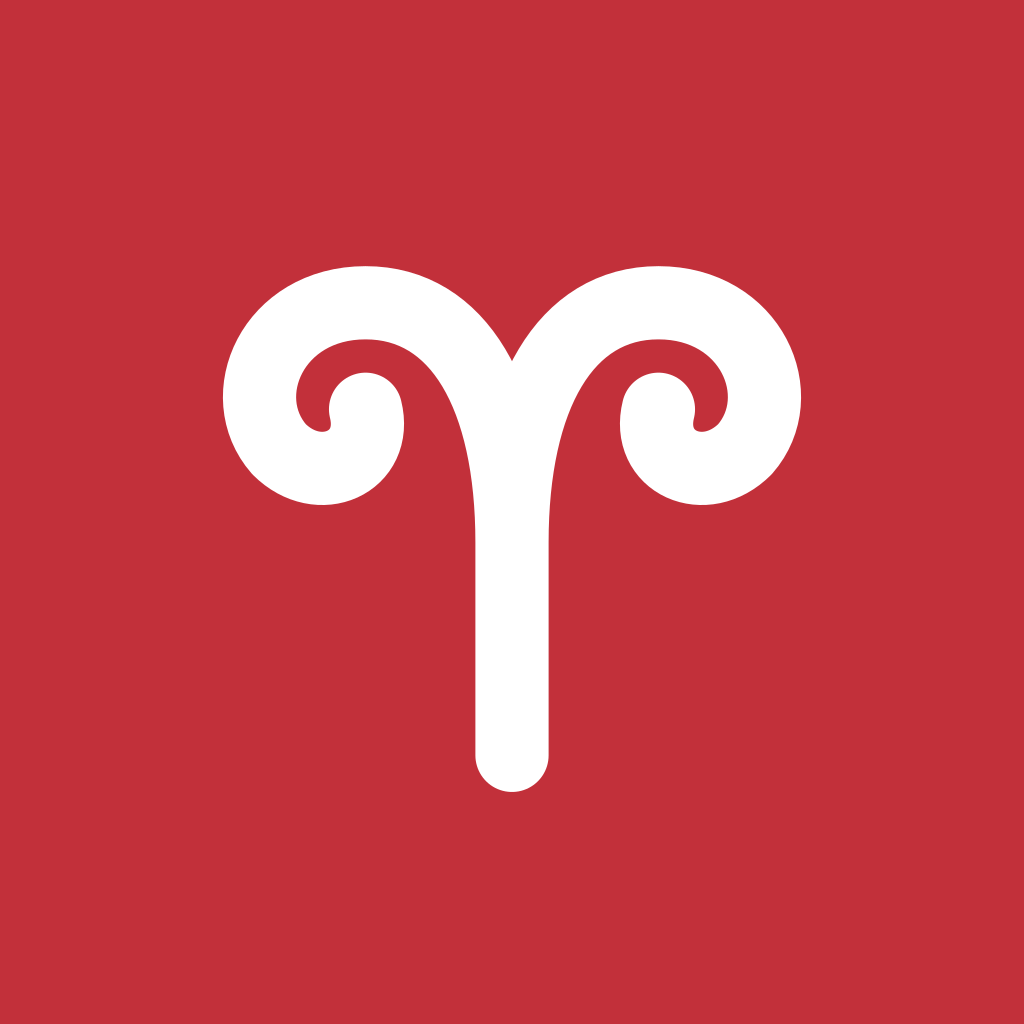
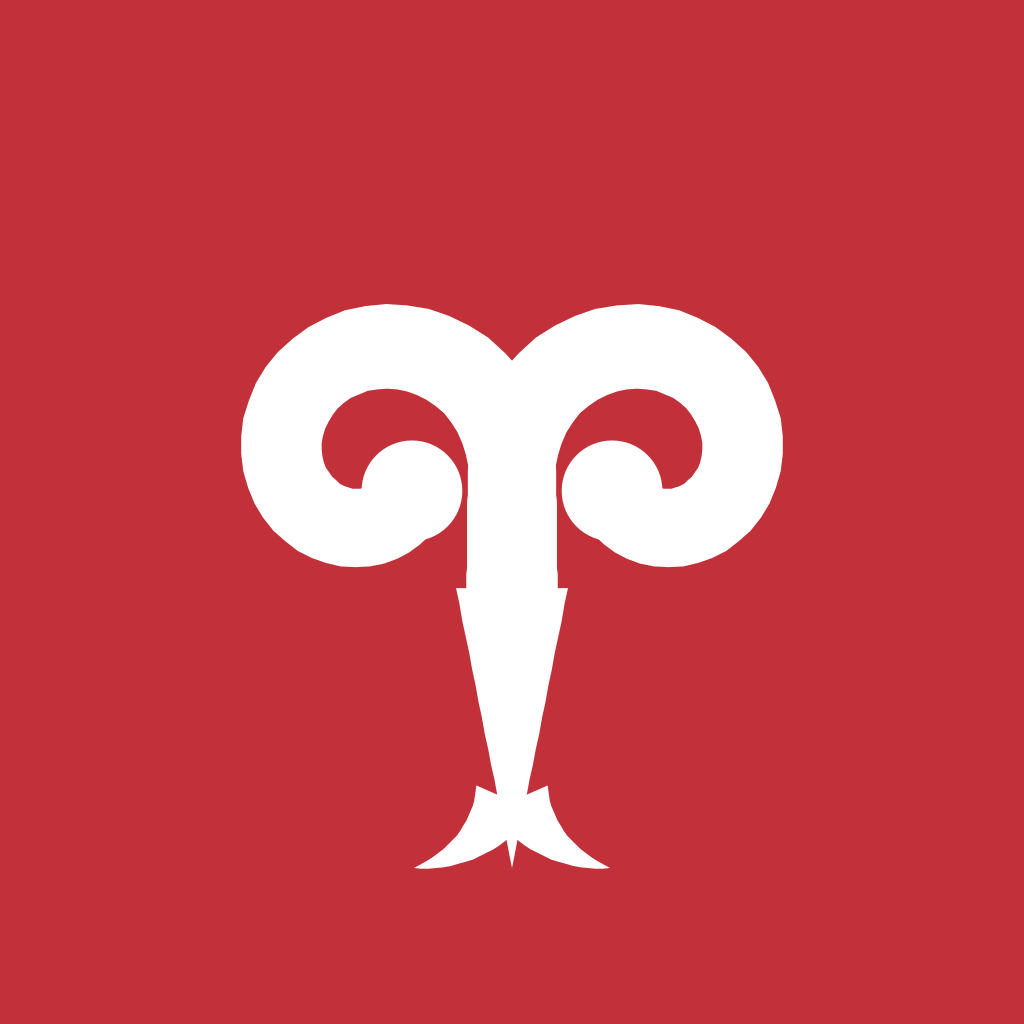
Redraw ornaments in cut-felt style: heavy spiral horns with round ends
New coil primitive (thick spiral ending in a round knob), pointed spikes
and a tulip bud, matching the plastic of traditional qoshqar müyiz.
Single-colour silhouettes on light tiles; new app icon, splash and
module banner strip in the same style.

Claude-Session: https://claude.ai/code/session_01NjPF9iNywv5Fmwc6nnLrA6

Changed region(s): [[0.2188, 0.25, 0.7812, 0.6562], [0.4062, 0.6875, 0.5938, 0.875]]

diff --git a/src/art.ts b/src/art.ts
@@ -10,18 +10,18 @@ type P = [number, number];
 export const PAL: Record<string, Pal> = {
   // [tile background, main silhouette, accent]
   muyiz: ['#FCE6DF', '#B42A34', '#E2A72E'],
-  qoshqar: ['#1E4FA3', '#FFF3E0', '#F2C14E'],
+  qoshqar: ['#E1EBF8', '#1E4FA3', '#B42A34'],
   synyq: ['#FFF0D2', '#B42A34', '#1E4FA3'],
   syngar: ['#E1EBF8', '#1E4FA3', '#B42A34'],
   tuyeorkesh: ['#F5E4D2', '#7A4A2E', '#B42A34'],
   tuyetaban: ['#E3EEF9', '#1E4FA3', '#B42A34'],
   botamoyin: ['#FBE4E1', '#9E2232', '#7A4A2E'],
   atbasy: ['#E3E8F3', '#1C2340', '#B42A34'],
-  jilinshik: ['#F2C14E', '#1C1C22', '#B42A34'],
+  jilinshik: ['#FBEBC2', '#1C1C22', '#B42A34'],
   kanka: ['#E8F2D8', '#2F6E43', '#D99A1E'],
   tortkulak: ['#FFF0D2', '#B42A34', '#1E4FA3'],
   qus: ['#DDEFF9', '#1F6FA8', '#B42A34'],
-  qanat: ['#E2F2E8', '#1E4FA3', '#3E8E57', '#B42A34'],
+  qanat: ['#E2F2E8', '#1E4FA3', '#3E8E57'],
   qarlygash: ['#DDEFF9', '#1C2340', '#3BA7D6'],
   qargatuyaq: ['#FFF0D2', '#1C2340', '#B42A34'],
   tyshqan: ['#F5E4D2', '#7A4A2E', '#B42A34'],
@@ -93,22 +93,6 @@ const circle = (x: number, y: number, r: number, fill: string) => `<circle cx="$
 const diamond = (x: number, y: number, r: number, fill: string) => poly([[x, y - r], [x + r, y], [x, y + r], [x - r, y]], fill);
 const rect = (x: number, y: number, w: number, h: number, fill: string, rx = 0) => `<rect x="${r1(x)}" y="${r1(y)}" width="${r1(w)}" height="${r1(h)}" rx="${rx}" fill="${fill}"/>`;
 
-/* ---------------- the horn ---------------- */
-
-// Canonical right horn, base at (0,0), rising, rolling outward and down into a tight curl.
-const HORN_LINE = chain([0, 0], [
-  [0, -14, 3, -27, 15, -33],
-  [27, -39, 41, -31, 39, -18],
-  [37, -7, 24, -6, 23, -15],
-  [22.5, -21, 28.5, -22.5, 30, -18.5],
-]);
-/** One horn as a filled path. flip mirrors it to curl left. */
-function horn(t: Xf & { flip?: boolean; w0?: number; w1?: number }, fill: string) {
-  const pts = taperPts(HORN_LINE, t.w0 ?? 13, t.w1 ?? 4.2, 0.8);
-  return poly(xf(pts, { ...t, sx: (t.sx ?? 1) * (t.flip ? -1 : 1) }), fill);
-}
-const hornPair = (t: Xf & { w0?: number; w1?: number }, fill: string) => horn(t, fill) + horn({ ...t, flip: true }, fill);
-
 /** A generic tapered curve from a Bézier chain, placed with a transform. */
 function blade(start: P, segs: number[][], w0: number, w1: number, t: Xf, fill: string, ease = 1) {
   return poly(xf(taperPts(chain(start, segs), w0, w1, ease), t), fill);
@@ -120,62 +104,114 @@ const bar = (pts: P[], w: number, fill: string) =>
 const mirrorX = (pts: P[], cx = 60): P[] => pts.map(([x, y]) => [2 * cx - x, y]);
 const mirrorY = (pts: P[], cy = 60): P[] => pts.map(([x, y]) => [x, 2 * cy - y]);
 
+/* ---------------- felt-cut primitives ---------------- */
+
+/** Pointed blade: like taperPts but ends in a sharp point. */
+function spikePts(line: P[], w0: number): P[] {
+  const pts = taperPts(line, w0, 0.01, 1);
+  return pts;
+}
+/** A tapered curve ending in a sharp point, from a Bézier chain. */
+function spike(start: P, segs: number[][], w0: number, t: Xf, fill: string) {
+  return poly(xf(spikePts(chain(start, segs), w0), t), fill);
+}
+
+interface Coil { cx: number; cy: number; R0: number; R1: number; turns: number; w: number; w0?: number; lead: number[]; knob?: number; a0?: number }
+/**
+ * Thick spiral horn: from base (0,0) a lead curve reaches the top of a spiral centred at (cx,cy),
+ * then winds clockwise inward (R0 → R1) and ends in a round knob — the cut-felt qoshqar müyiz curl.
+ */
+function coilPts(c: Coil): P[] {
+  const a0 = ((c.a0 ?? -90) * Math.PI) / 180;
+  const S: P = [c.cx + c.R0 * Math.cos(a0), c.cy + c.R0 * Math.sin(a0)];
+  const lead = chain([0, 0], [[c.lead[0], c.lead[1], c.lead[2], c.lead[3], S[0], S[1]]], 16);
+  const sp: P[] = [];
+  const n = Math.round(48 * c.turns);
+  for (let i = 1; i <= n; i++) {
+    const t = i / n, th = a0 + t * c.turns * 2 * Math.PI;
+    const r = c.R0 - (c.R0 - c.R1) * t;
+    sp.push([c.cx + r * Math.cos(th), c.cy + r * Math.sin(th)]);
+  }
+  return [...lead, ...sp];
+}
+function coil(c: Coil, t: Xf & { flip?: boolean }, fill: string) {
+  const line = coilPts(c);
+  const body = taperPts(line, c.w0 ?? c.w * 1.15, c.w, 1);
+  const end = line[line.length - 1];
+  const T = { ...t, sx: (t.sx ?? 1) * (t.flip ? -1 : 1) };
+  const [kx, ky] = xf([end], T)[0];
+  const k = (t.s ?? 1) * (c.knob ?? c.w * 0.62);
+  return poly(xf(body, T), fill) + circle(kx, ky, k, fill);
+}
+const coilPair = (c: Coil, t: Xf, fill: string) => coil(c, t, fill) + coil(c, { ...t, flip: true }, fill);
+
+/** Tulip bud on a short neck, tip pointing up, base at (0,0). */
+const BUD: P[] = chain([0, 0], [[-3, -2, -10, -6, -10, -13], [-10, -20, -4, -24, 0, -32], [4, -24, 10, -20, 10, -13], [10, -6, 3, -2, 0, 0]], 12);
+const bud = (t: Xf, fill: string) => poly(xf(BUD, t), fill);
+
 /* ---------------- motifs ---------------- */
 
 const ART: Record<string, (p: Pal) => string> = {
-  // Müyiz: the single basic element: a short stem splitting into two horns.
-  muyiz: ([, f, a]) =>
-    poly([[54, 100], [66, 100], [64.5, 74], [55.5, 74]], f) +
-    hornPair({ x: 60, y: 76, s: 1.12 }, f) +
-    diamond(60, 104, 5, a),
+  // Müyiz: the basic element — a stem that opens into two horns curling outward.
+  muyiz: ([, f]) =>
+    spike([0, 0], [[0, 14, 0, 28, 0, 40]], 16, { x: 60, y: 64 }, f) +
+    spike([0, 0], [[-2, 5, -7, 9, -13, 10]], 9, { x: 59, y: 94 }, f) +
+    spike([0, 0], [[2, 5, 7, 9, 13, 10]], 9, { x: 61, y: 94 }, f) +
+    coilPair({ a0: 180, cx: 20, cy: -20, R0: 20, R1: 7, turns: 0.9, w0: 13, w: 11, knob: 7.2, lead: [0, -7, 0, -14] }, { x: 60, y: 66 }, f),
 
-  // Qoshqar müyiz: big pair up, small pair turned down, joined by a pointed core.
-  qoshqar: ([, f, a]) =>
-    hornPair({ x: 60, y: 62, s: 1.1, w0: 14 }, f) +
-    hornPair({ x: 60, y: 72, s: 0.6, sy: -1, w0: 13 }, f) +
-    poly([[60, 50], [69, 67], [60, 84], [51, 67]], f) +
-    diamond(60, 67, 5.5, a),
+  // Qoshqar müyiz: bud and leaves on top, two heavy horns rolling down, forked foot.
+  qoshqar: ([, f]) =>
+    spike([0, 0], [[0, 20, 0, 40, 0, 62]], 19, { x: 60, y: 36 }, f) +
+    spike([0, 0], [[-2, 6, -8, 11, -15, 13]], 10, { x: 59, y: 88 }, f) +
+    spike([0, 0], [[2, 6, 8, 11, 15, 13]], 10, { x: 61, y: 88 }, f) +
+    coilPair({ cx: 25, cy: 22, R0: 22, R1: 9, turns: 0.9, w0: 11, w: 15, knob: 9, lead: [4, -8, 14, -1] }, { x: 60, y: 54, s: 0.95 }, f) +
+    spike([0, 0], [[6, 0, 13, -3, 17, -11]], 10, { x: 60, y: 45 }, f) +
+    spike([0, 0], [[-6, 0, -13, -3, -17, -11]], 10, { x: 60, y: 45 }, f) +
+    bud({ x: 60, y: 42, s: 0.85 }, f),
 
   // Synyq müyiz: the horn hook rebuilt from straight lines, four hooks around a diamond.
-  synyq: ([, f, a]) => {
+  synyq: ([b, f]) => {
     const hook: P[] = [[60, 46], [60, 26], [84, 26], [84, 44], [70, 44], [70, 36]];
     let s = '';
-    for (const pts of [hook, mirrorX(hook), mirrorY(hook), mirrorX(mirrorY(hook))]) s += bar(pts, 8, f);
-    return s + diamond(60, 60, 12, f) + diamond(60, 60, 5.5, a);
+    for (const pts of [hook, mirrorX(hook), mirrorY(hook), mirrorX(mirrorY(hook))]) s += bar(pts, 9, f);
+    return s + diamond(60, 60, 13, f) + diamond(60, 60, 5, b);
   },
 
-  // Syngar müyiz: a border of single horns rising from one band.
-  syngar: ([, f, a]) =>
-    rect(8, 86, 104, 11, f, 3) +
-    [12, 45, 78].map(x => horn({ x: x + 2, y: 88, s: 0.76, w0: 13, w1: 4.2 }, f)).join('') +
-    [31, 64, 97].map(x => diamond(x, 36, 4, a)).join(''),
+  // Syngar müyiz: a border band with single horns rising from it, all curling the same way.
+  syngar: ([, f]) =>
+    rect(8, 84, 104, 12, f, 2) +
+    [14, 46, 78].map(x => coil({ a0: 180, cx: 14, cy: -22, R0: 14, R1: 4.5, turns: 0.88, w0: 10, w: 8, knob: 5.4, lead: [0, -8, 0, -15] }, { x: x + 1, y: 86 }, f)).join('') +
+    [31, 63, 95].map(x => spike([0, 0], [[0, -6, 0, -12, 0, -18]], 7, { x, y: 85 }, f)).join(''),
 
-  // Tüye örkesh: two humps on a band, the outer slopes ending in horn curls.
-  tuyeorkesh: ([, f, a]) =>
-    path('M12 96 L12 88 C17 88 20 38 39 38 C55 38 56 64 60 70 C64 64 65 38 81 38 C100 38 103 88 108 88 L108 96 Z', f) +
-    diamond(39, 72, 6, a) + diamond(81, 72, 6, a) + diamond(60, 88, 4, a),
+  // Tüye örkesh: two camel humps rising from a band, a bud between them.
+  tuyeorkesh: ([, f]) =>
+    path('M10 98 L10 88 C17 88 20 42 39 42 C54 42 56 62 60 70 C64 62 66 42 81 42 C100 42 103 88 110 88 L110 98 Z', f) +
+    bud({ x: 60, y: 72, s: 0.75 }, f),
 
-  // Tüye taban: four camel footprints (two-toed heart shapes) around a diamond.
-  tuyetaban: ([, f, a]) => {
+  // Tüye taban: four camel footprints (two-toed hearts) around a diamond.
+  tuyetaban: ([b, f]) => {
     const pad = chain([0, 0], [[-13, 0, -17, -15, -11, -24], [-7, -30, -1, -28, 0, -17], [1, -28, 7, -30, 11, -24], [17, -15, 13, 0, 0, 0]], 14);
     let s = '';
     for (let k = 0; k < 4; k++) {
       const ang = ((k * 90 + 45) * Math.PI) / 180;
-      const pts = xf(pad, { s: 1.15, rot: k * 90 + 45 }).map(([x, y]) => [x + 60 + Math.sin(ang) * 13, y + 60 - Math.cos(ang) * 13] as P);
-      s += poly(pts, f);
+      s += poly(xf(pad, { s: 1.15, rot: k * 90 + 45 }).map(([x, y]) => [x + 60 + Math.sin(ang) * 13, y + 60 - Math.cos(ang) * 13] as P), f);
     }
-    return s + diamond(60, 60, 8, a);
+    return s + diamond(60, 60, 9, f) + diamond(60, 60, 3.5, b);
   },
 
-  // Bota moyyn: two slender necks bowing towards each other, forming a lyre.
-  botamoyin: ([, f, a]) => {
-    const neck = (flip: boolean) =>
-      blade([0, 0], [[24, -8, 32, -30, 24, -50], [19, -62, 5, -66, 1, -56], [-2, -50, 4, -45, 8, -49]], 13, 4.5, { x: 60 + (flip ? -5 : 5), y: 100, sx: flip ? -1 : 1 }, f, 0.9);
-    return neck(false) + neck(true) + diamond(60, 66, 7, a) + diamond(60, 104, 3.5, a);
+  // Bota moyyn: two slender necks bowing towards each other into heavy curls, a bud between.
+  botamoyin: ([, f]) => {
+    const neck = (flip: boolean) => {
+      const sx = flip ? -1 : 1;
+      return blade([0, 0], [[24, -8, 32, -30, 24, -50], [19, -62, 5, -66, 1, -56], [-1, -51, 3, -47, 7, -49]], 12, 9, { x: 60 + sx * 5, y: 102, sx }, f, 0.9) +
+        circle(60 + sx * 12, 53, 6.5, f);
+    };
+    return neck(false) + neck(true) + bud({ x: 60, y: 84, s: 0.95 }, f) +
+      spike([0, 0], [[0, 4, 0, 8, 0, 14]], 8, { x: 60, y: 84 }, f);
   },
 
-  // At basy: two horse heads facing each other, arched necks, curled manes.
-  atbasy: ([, f, a]) => {
+  // At basy: two horse heads facing each other, arched necks.
+  atbasy: ([, f]) => {
     const head: P[] = chain([0, 0], [
       [-2, -22, 2, -40, 12, -48], [13, -53, 15, -58, 17, -61], [19, -57, 20, -53, 22, -50],
       [30, -46, 38, -38, 42, -30], [44, -26, 42, -22, 37, -22], [31, -22, 27, -24, 24, -22],
@@ -184,106 +220,108 @@ const ART: Record<string, (p: Pal) => string> = {
     const one = (flip: boolean) => {
       const x0 = flip ? 106 : 14, sx = flip ? -1 : 1;
       return poly(xf(head, { x: x0, y: 96, sx, s: 0.95 }), f) +
-        blade([0, 0], [[-8, 4, -12, 14, -8, 22]], 6, 3, { x: x0 + sx * 8, y: 52, sx }, f) +
-        circle(x0 + sx * 25, 57, 2.4, a);
+        spike([0, 0], [[-8, 4, -12, 14, -8, 24]], 7, { x: x0 + sx * 8, y: 52, sx }, f);
     };
-    return one(false) + one(true) + rect(12, 98, 96, 6, a, 3);
+    return one(false) + one(true) + rect(10, 96, 100, 9, f, 2);
   },
 
-  // Jilinshik: the "shin bone" key — an angular meander band.
-  jilinshik: ([, f, a]) => {
+  // Jilinshik: the "shin bone" key — an angular meander.
+  jilinshik: ([b, f]) => {
     const key: P[] = [[14, 88], [14, 34], [52, 34], [52, 70], [32, 70], [32, 52], [42, 52]];
-    return bar(key, 9, f) + bar(mirrorX(mirrorY(key)), 9, f) + diamond(60, 60, 6, a);
+    return bar(key, 10, f) + bar(mirrorX(mirrorY(key)), 10, f) + diamond(60, 60, 7, f) + diamond(60, 60, 2.5, b);
   },
 
-  // Qangqa: a spine with dense, slightly bowed ribs.
-  kanka: ([, f, a]) => {
-    let s = rect(55.5, 14, 9, 92, f, 4);
+  // Qangqa: a spine with dense ribs, each rib tapering to a point.
+  kanka: ([, f]) => {
+    let s = rect(55, 18, 10, 90, f, 3);
     for (let i = 0; i < 6; i++) {
-      const y = 26 + i * 13.5;
-      s += blade([0, 0], [[-10, 2, -20, 6, -28, 12]], 7, 5.5, { x: 58, y }, f) +
-        blade([0, 0], [[10, 2, 20, 6, 28, 12]], 7, 5.5, { x: 62, y }, f);
+      const y = 28 + i * 13;
+      s += spike([0, 0], [[-10, 2, -20, 6, -30, 13]], 9, { x: 57, y }, f) + spike([0, 0], [[10, 2, 20, 6, 30, 13]], 9, { x: 63, y }, f);
     }
-    return s + diamond(60, 12, 6, a);
+    return s + bud({ x: 60, y: 22, s: 0.6 }, f);
   },
 
-  // Tört qulaq: four ram's-horn pairs spreading to the four sides of a square core.
-  tortkulak: ([, f, a]) => {
+  // Tört qulaq: four ram's-horn pairs on the four sides of a square core.
+  tortkulak: ([b, f]) => {
     let s = '';
     for (let k = 0; k < 4; k++) {
       const ang = (k * 90 * Math.PI) / 180;
-      s += hornPair({ x: 60 + Math.sin(ang) * 13, y: 60 - Math.cos(ang) * 13, s: 0.62, rot: k * 90, w0: 14, w1: 4.5 }, f);
+      s += coilPair({ a0: 180, cx: 16, cy: -15, R0: 16, R1: 5.5, turns: 0.9, w0: 12, w: 9, knob: 6, lead: [0, -5, 0, -10] },
+        { x: 60 + Math.sin(ang) * 12, y: 60 - Math.cos(ang) * 12, rot: k * 90, s: 0.78 }, f);
     }
-    return s + poly([[60, 46], [74, 60], [60, 74], [46, 60]], f) + diamond(60, 60, 6, a);
+    return s + poly([[60, 44], [76, 60], [60, 76], [44, 60]], f) + diamond(60, 60, 5, b);
   },
 
   // Qus: two swans with S-shaped necks facing a bud.
-  qus: ([b, f, a]) => {
+  qus: ([b, f]) => {
     const bird = (flip: boolean) => {
       const t: Xf = { x: flip ? 104 : 16, y: 0, sx: flip ? -1 : 1 };
       const body = chain([0, 82], [[4, 98, 30, 102, 40, 88], [44, 82, 42, 74, 36, 72], [26, 70, 14, 76, 0, 82]], 12);
-      const neck = blade([34, 76], [[42, 64, 40, 50, 30, 46], [22, 43, 20, 34, 28, 30]], 9, 6, t, f);
-      return poly(xf(body, t), f) + neck +
-        poly(xf([[27, 26], [33, 27], [42, 33], [33, 33]], t), f) +
-        circle(flip ? 104 - 31 : 16 + 31, 29, 1.8, b);
+      return poly(xf(body, t), f) + blade([34, 76], [[42, 64, 40, 50, 30, 46], [22, 43, 20, 34, 28, 30]], 10, 7, t, f) +
+        poly(xf([[27, 26], [33, 27], [42, 33], [33, 33]], t), f) + circle(flip ? 104 - 31 : 16 + 31, 29, 1.8, b) +
+        spike([0, 0], [[-6, -2, -12, -8, -14, -16]], 8, { ...t, x: (t.x as number), y: 82 }, f);
     };
-    return bird(false) + bird(true) + circle(60, 50, 6.5, a) + rect(58.5, 55, 3, 18, a, 1.5);
+    return bird(false) + bird(true) + bud({ x: 60, y: 62, s: 0.9 }, f) + spike([0, 0], [[0, 6, 0, 14, 0, 24]], 7, { x: 60, y: 61 }, f);
   },
 
-  // Qus qanaty: a pair of spread wings, each of three tapering feathers, around a red core.
-  qanat: ([, f, a, r]) =>
-    hornPair({ x: 60, y: 82, s: 1.12, w0: 14, w1: 4.5 }, f) +
-    hornPair({ x: 60, y: 82, s: 0.72, w0: 12, w1: 4 }, a) +
-    poly([[60, 72], [67, 84], [60, 100], [53, 84]], f) + diamond(60, 86, 4.5, r),
+  // Qus qanaty: two curls facing the centre under a bud, long pointed wings sweeping out.
+  qanat: ([, f, a]) =>
+    spike([0, 0], [[-14, -2, -32, 4, -50, 18]], 17, { x: 52, y: 70 }, f) +
+    spike([0, 0], [[14, -2, 32, 4, 50, 18]], 17, { x: 68, y: 70 }, f) +
+    spike([0, 0], [[-10, 6, -24, 14, -34, 30]], 11, { x: 50, y: 78 }, a) +
+    spike([0, 0], [[10, 6, 24, 14, 34, 30]], 11, { x: 70, y: 78 }, a) +
+    coil({ a0: 180, cx: 16, cy: -12, R0: 16, R1: 5.5, turns: 0.9, w0: 11, w: 9, knob: 6, lead: [0, -4, 0, -8] }, { x: 27, y: 78 }, f) +
+    coil({ a0: 180, cx: 16, cy: -12, R0: 16, R1: 5.5, turns: 0.9, w0: 11, w: 9, knob: 6, lead: [0, -4, 0, -8] }, { x: 93, y: 78, flip: true }, f) +
+    spike([0, 0], [[0, 10, 0, 22, 0, 34]], 15, { x: 60, y: 54 }, f) +
+    bud({ x: 60, y: 54, s: 0.9 }, f),
 
   // Qarlyghash: a swallow seen from above: swept wings, deep forked tail.
-  qarlygash: ([, f, a]) =>
-    path('M60 22 C66 22 68 30 67 38 C80 34 96 32 110 36 C96 44 82 52 70 58 L74 76 L86 102 L68 86 L60 96 L52 86 L34 102 L46 76 L50 58 C38 52 24 44 10 36 C24 32 40 34 53 38 C52 30 54 22 60 22 Z', f) +
-    path('M60 40 C64 40 65 48 64 56 L60 62 L56 56 C55 48 56 40 60 40 Z', a),
+  qarlygash: ([b, f]) =>
+    path('M60 20 C66 20 68 28 67 36 C80 32 98 30 112 36 C98 44 82 52 70 58 L74 76 L88 104 L68 86 L60 96 L52 86 L32 104 L46 76 L50 58 C38 52 22 44 8 36 C22 30 40 32 53 36 C52 28 54 20 60 20 Z', f) +
+    path('M60 42 C63 42 64 50 63 56 L60 61 L57 56 C56 50 57 42 60 42 Z', b),
 
   // Qargha tuyaq: crow's tracks — three pointed toes and a heel, stepping diagonally.
-  qargatuyaq: ([, f, a]) => {
-    const foot: P[] = [[0, 8], [-4, 0], [-17, -13], [-5, -5], [-3, -22], [0, -8], [3, -22], [5, -5], [17, -13], [4, 0]];
-    return [[36, 92], [62, 64], [88, 36]].map(([x, y]) => poly(xf(foot, { x, y, rot: 30, s: 1.05 }), f)).join('') +
-      diamond(30, 40, 5, a) + diamond(90, 92, 5, a);
+  qargatuyaq: ([, f]) => {
+    const foot: P[] = [[0, 9], [-4.5, 0], [-18, -13], [-5, -5], [-3.5, -23], [0, -8], [3.5, -23], [5, -5], [18, -13], [4.5, 0]];
+    return [[34, 94], [60, 64], [86, 34]].map(([x, y]) => poly(xf(foot, { x, y, rot: 30, s: 1.12 }), f)).join('');
   },
 
   // Tyshqan izi: mouse tracks — nested chevrons running in a band.
-  tyshqan: ([, f, a]) => {
+  tyshqan: ([, f]) => {
     let s = '';
     for (let i = 0; i < 4; i++) {
-      const y = 30 + i * 18;
-      s += poly([[16, y], [60, y + 22], [104, y], [104, y + 9], [60, y + 31], [16, y + 9]], i === 3 ? a : f);
+      const y = 28 + i * 18;
+      s += poly([[14, y], [60, y + 23], [106, y], [106, y + 10], [60, y + 33], [14, y + 10]], f);
     }
     return s;
   },
 
-  // It quyryq: curled dog's tails rising and falling along a carved band.
-  itquyryk: ([, f, a]) => {
-    const tail = (x: number, up: boolean) =>
-      blade([0, 0], [[0, -16, 8, -30, 20, -30], [30, -30, 32, -16, 24, -12], [18, -9, 14, -16, 19, -19]], 11, 4, { x, y: up ? 88 : 32, sy: up ? 1 : -1, s: 0.82 }, f, 0.9);
-    return rect(8, 88, 104, 7, a, 3) + rect(8, 25, 104, 7, a, 3) + tail(12, true) + tail(38, false) + tail(64, true) + tail(90, false);
+  // It quyryq: curled dog's tails rising and hanging along a carved band.
+  itquyryk: ([, f]) => {
+    const c: Coil = { a0: 180, cx: 14, cy: -16, R0: 14, R1: 4.5, turns: 0.9, w0: 10, w: 8, knob: 5.4, lead: [0, -6, 0, -12] };
+    return rect(8, 88, 104, 8, f, 2) + rect(8, 24, 104, 8, f, 2) +
+      [12, 64].map(x => coil(c, { x, y: 89 }, f)).join('') +
+      [38, 90].map(x => coil(c, { x, y: 31, sy: -1 }, f)).join('');
   },
 
-  // Örmekshi: a spider — round body, eight legs ending in small hooks.
-  ormekshi: ([, f, a]) => {
+  // Örmekshi: a spider — round body, eight jointed legs.
+  ormekshi: ([b, f]) => {
     let s = '';
     for (const flip of [false, true]) {
       [-42, -14, 14, 42].forEach(rot => {
         const sx = flip ? -1 : 1;
-        s += blade([0, 0], [[9, -5, 18, -11, 26, -13], [31, -14, 35, -10, 35, -3]], 6.5, 3.4,
-          { x: 60 + sx * 8, y: 64, rot: (flip ? -1 : 1) * rot, sx }, f);
+        s += spike([0, 0], [[9, -5, 18, -11, 26, -13], [31, -14, 35, -10, 36, -1]], 7.5, { x: 60 + sx * 8, y: 64, rot: (flip ? -1 : 1) * rot, sx }, f);
       });
     }
-    return s + `<ellipse cx="60" cy="72" rx="12" ry="15" fill="${f}"/>` + circle(60, 51, 8, f) + diamond(60, 72, 5, a);
+    return s + `<ellipse cx="60" cy="72" rx="13" ry="16" fill="${f}"/>` + circle(60, 50, 8.5, f) + diamond(60, 72, 4.5, b);
   },
 
   // Qumyrsqa: the ant — an angular cross whose arms end in hooks, around a diamond.
-  qumyrsqa: ([, f, a]) => {
+  qumyrsqa: ([b, f]) => {
     const arm: P[] = [[66, 54], [86, 34], [86, 20], [100, 20]];
     let s = '';
-    for (const pts of [arm, mirrorX(arm), mirrorY(arm), mirrorX(mirrorY(arm))]) s += bar(pts, 8, f);
-    return s + diamond(60, 60, 13, f) + diamond(60, 60, 6, a);
+    for (const pts of [arm, mirrorX(arm), mirrorY(arm), mirrorX(mirrorY(arm))]) s += bar(pts, 9, f);
+    return s + diamond(60, 60, 14, f) + diamond(60, 60, 5, b);
   },
 };
 
@@ -301,10 +339,12 @@ export function ornamentXml(id: string): string {
 
 export const SHANYRAK_XML = `<svg viewBox="0 0 120 120" xmlns="http://www.w3.org/2000/svg"><circle cx="60" cy="60" r="44" fill="none" stroke="#FFFFFF" stroke-width="9"/><path d="M20 46 Q60 30 100 46 M20 74 Q60 90 100 74 M46 20 Q30 60 46 100 M74 20 Q90 60 74 100" fill="none" stroke="#FFFFFF" stroke-width="7" stroke-linecap="round"/><circle cx="60" cy="60" r="8" fill="#FFFFFF"/></svg>`;
 
+const LOGO_COIL: Coil = { a0: 180, cx: 20, cy: -20, R0: 20, R1: 7, turns: 0.9, w0: 13, w: 11, knob: 7.2, lead: [0, -7, 0, -14] };
+
 export const hornStripXml = (color: string) =>
-  `<svg viewBox="0 0 110 176" xmlns="http://www.w3.org/2000/svg">${[0, 1, 2, 3].map(r => hornPair({ x: 55, y: 40 + r * 44, s: 0.62 }, color)).join('')}</svg>`;
+  `<svg viewBox="0 0 110 176" xmlns="http://www.w3.org/2000/svg">${[0, 1, 2, 3].map(r => coilPair(LOGO_COIL, { x: 55, y: 44 + r * 44, s: 0.62 }, color)).join('')}</svg>`;
 
 export const LOGO_XML = (color: string) =>
-  `<svg viewBox="0 0 120 120" xmlns="http://www.w3.org/2000/svg">${poly([[54, 104], [66, 104], [64.5, 72], [55.5, 72]], color)}${hornPair({ x: 60, y: 74, s: 1.2, w0: 15, w1: 5 }, color)}</svg>`;
+  `<svg viewBox="0 0 120 120" xmlns="http://www.w3.org/2000/svg">${spike([0, 0], [[0, 14, 0, 28, 0, 40]], 16, { x: 60, y: 70 }, color)}${spike([0, 0], [[-2, 5, -7, 9, -13, 10]], 9, { x: 59, y: 100 }, color)}${spike([0, 0], [[2, 5, 7, 9, 13, 10]], 9, { x: 61, y: 100 }, color)}${coilPair(LOGO_COIL, { x: 60, y: 72 }, color)}</svg>`;
 
 export const ARTS = ART;
